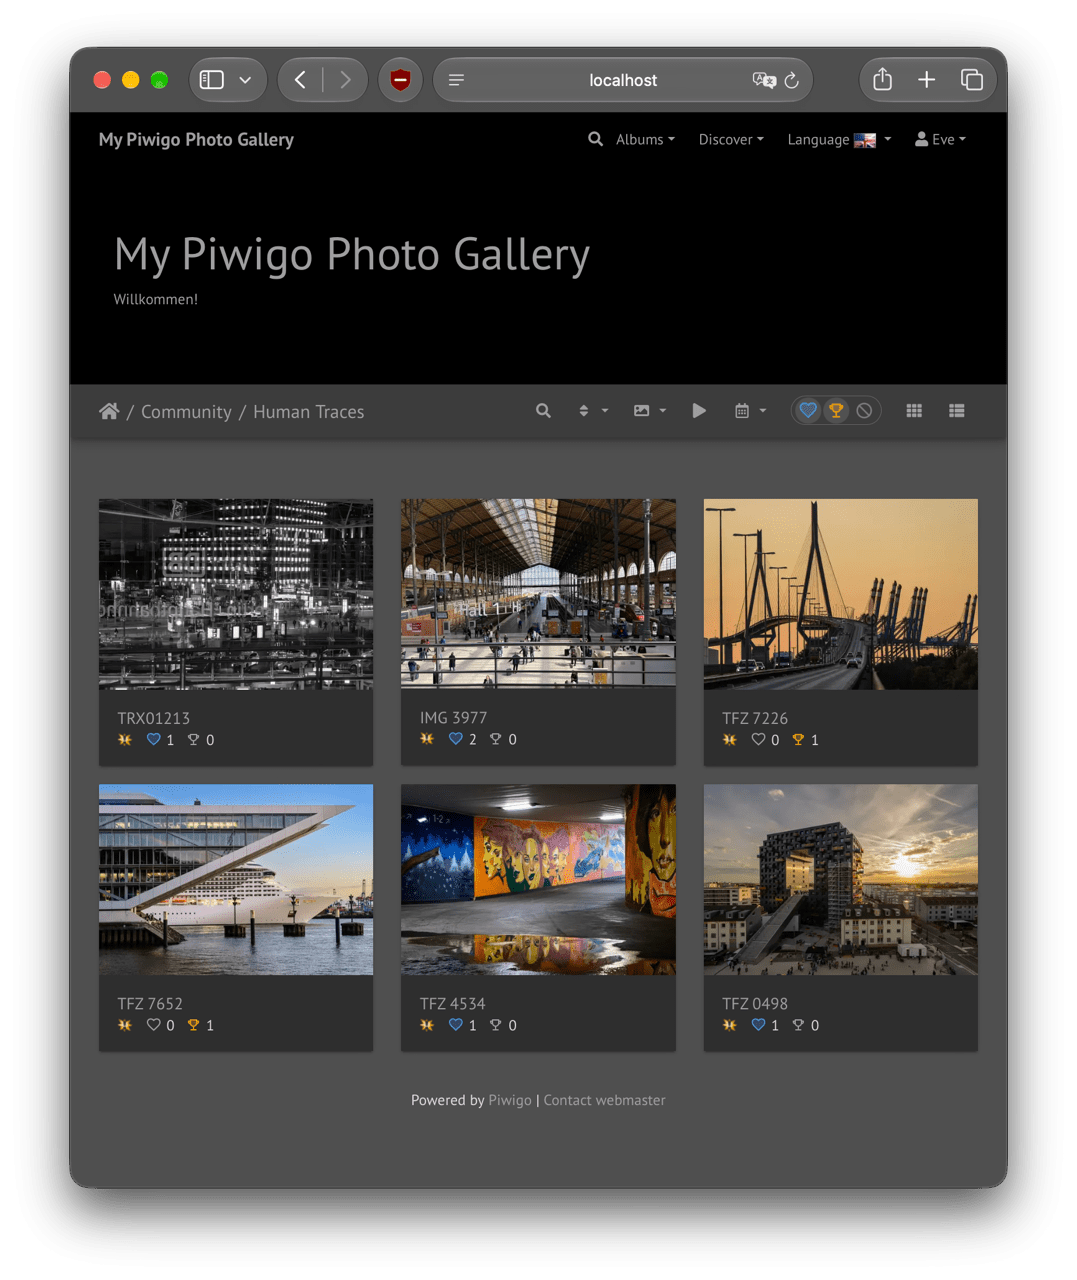
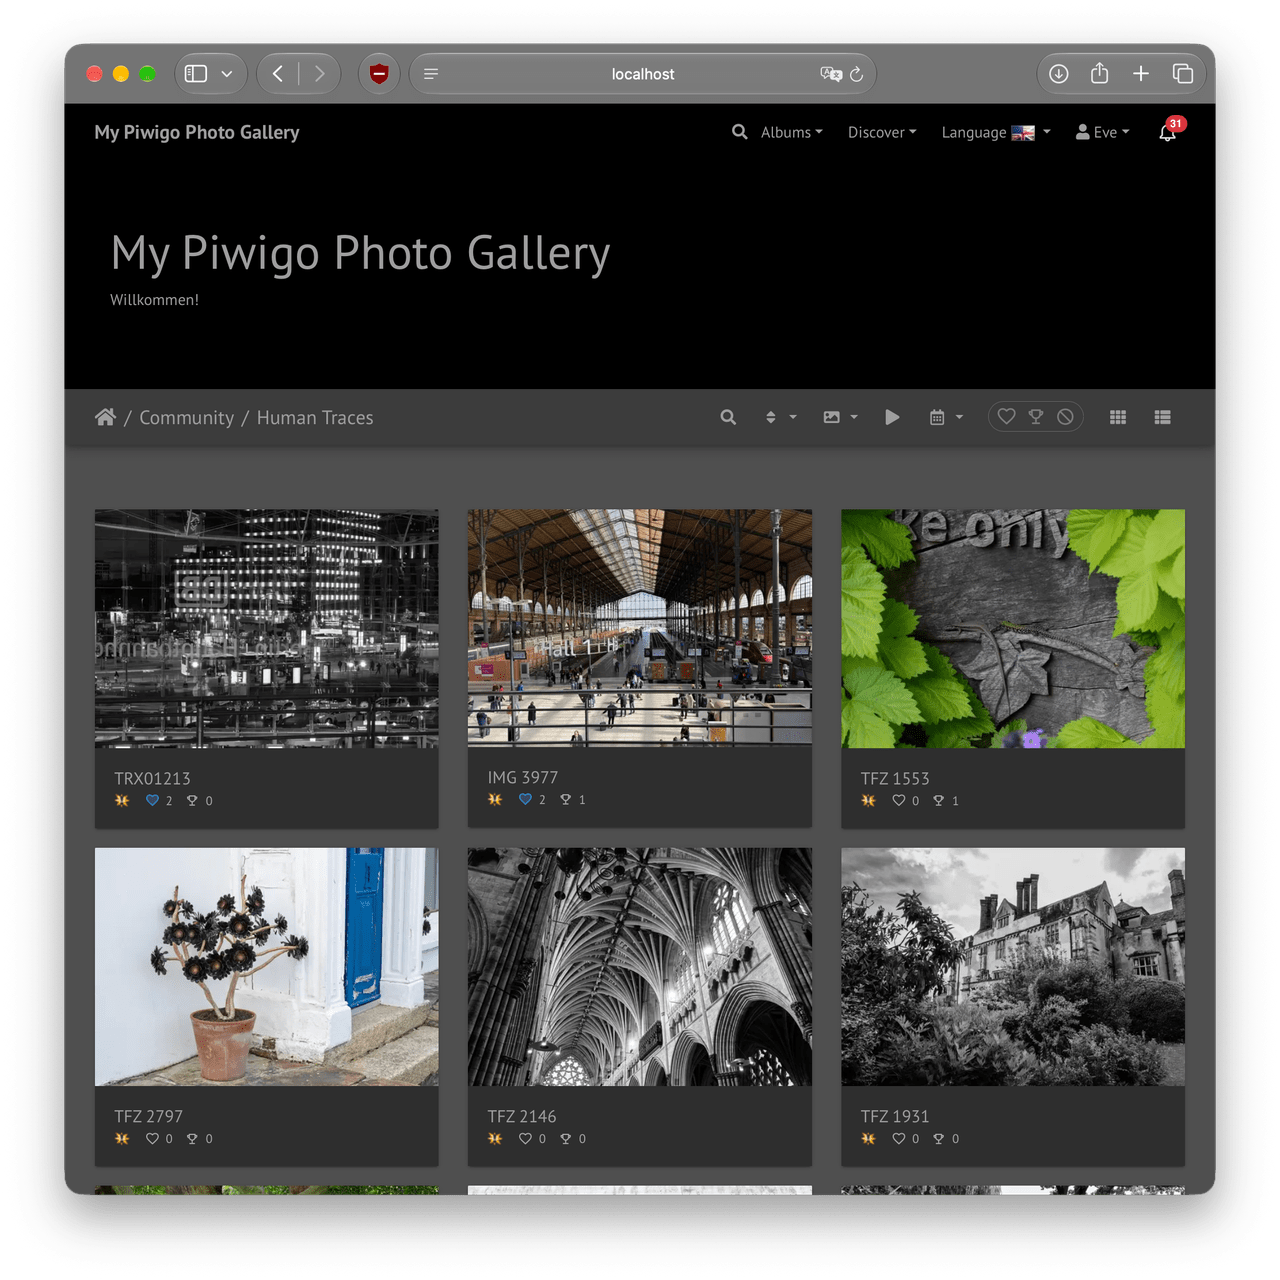
Feedback bell, step 8: README, changelog, screenshots
README: section "Feedback bell" (what the number counts, the list, the
page "All feedback", what counts and who is named, where the bell sits),
deactivating and uninstalling, two known limitations (owner from "added
by", time of votes only from the installation on). Changelog: area
"Feedback bell" under "Unreleased". New screenshots of the open list
and the page; the album pages and the photo page in Modus show the
bell now.

Modus: the name in front of "!" keeps no space after it, as without the
bell (the theme takes it away from the first link of the line only).

diff --git a/css/bell.css b/css/bell.css
@@ -91,6 +91,13 @@
   margin: -6px 8px -4px 0;
 }
 
+/* Modus takes the space after the first link of the line away
+   (#menubar dt a:first-child); with the bell in front, the name is no
+   longer the first child */
+#menubar dt > .lb-bell-modus:first-child + a {
+  padding-right: 0;
+}
+
 .lb-bell-elegant {
   float: right;
   width: 28px;

diff --git a/README.md b/README.md
@@ -8,6 +8,9 @@ It is built on Piwigo's own rating system: votes are stored as ordinary ratings,
 "Best rated" keeps working, and an album can be switched between stars and likes
 at any time without losing a vote.
 
+Members also get a bell that tells them who liked their photos, gave them a bravo
+or commented on them.
+
 * Internal name: `like_bravo` (directory name in `plugins/`)
 * Requires Piwigo 16 or later, PHP 8
 * Languages: English, German, French, Spanish, Italian
@@ -67,6 +70,59 @@ In the collapsed menu of narrow windows, the group sits on one line headed
 
 The menu block "Explore" gets two personal pages for signed-in members: "My likes"
 and "My bravos", with the latest votes first.
+
+## Feedback bell
+
+Signed-in members see a bell on every page of the gallery. Its red number counts
+the likes, bravos and comments that others gave to their photos and that they have
+not read yet. A photo belongs to the member who added it, for example with the
+plugin Community.
+
+A click on the bell opens the latest feedback, newest first. Older entries load
+while scrolling. Each entry has the thumbnail of the photo and one line of text,
+followed by the time and the photo's current likes and bravos:
+
+* "Anna likes your photo" / "Anna gave your photo a bravo"
+* "Ben commented on your photo: Lovely light in the …" (the beginning of the
+  comment)
+* "Ben edited a comment on your photo: …"
+
+![The open list of the bell in the theme Bootstrap Darkroom, with read and unread entries](docs/screenshots/bell.png)
+
+Unread entries have a blue dot and a light background. A click on the thumbnail
+opens the photo page (for a comment, at the comments) and marks the entry as
+read. So does a click on the dot, without leaving the list. "Mark all as read"
+marks everything at once. A click on the name of a member opens their own album
+of the plugin Community, if there is one with photos the owner may see.
+
+The link "All feedback" at the bottom of the list leads to a page with all
+feedback without an age limit. It is a feed under the headings Today, Yesterday,
+This week and Earlier. Next to the feed are an overview of the last 7 days, the
+filters All entries / Unread and All kinds / Likes and bravos / Comments, and the
+photos with the most feedback. On phones these sit above the feed.
+
+![Page "All feedback": the feed under the heading Today, next to it the overview, the filters and the photos with the most feedback](docs/screenshots/feedback-page.png)
+
+What counts:
+
+* Of the votes, only likes and bravos. Votes with Piwigo's stars, or on photos
+  without rating, do not appear. Comments appear on all photos.
+* A changed vote and an edited comment are unread again. A vote taken back, a
+  deleted comment or photo disappear. Comments that need approval appear once
+  they are approved.
+* A member's own votes and comments on their own photos do not appear.
+* Names follow the setting "Names of voters". Shown "to signed-in members" or "to
+  all visitors", members see in the bell who liked their photos or gave them a
+  bravo. Shown "to nobody", the entry says "Your photo got a like" or "Your photo
+  got a bravo" without a name. Comments always
+  show their author. Guests appear as "a guest", votes of deleted members as "a
+  former member".
+* When the plugin is installed or updated, all feedback given before counts as
+  read, so the bell starts at zero.
+
+The bell finds its place in the menu bar of Bootstrap Darkroom, Modus, Elegant and
+SmartPocket. In other themes, and where the theme hides its menu, it sits in the
+top right corner of the window. It has no settings and sends no emails.
 
 ## Requirements
 
@@ -156,9 +212,11 @@ switched, is in [docs/rating.md](docs/rating.md).
 
 * **Deactivating** hands all scores back to Piwigo. Likes then count as a rating
   of 2 and bravos as a rating of 4. The album settings are kept, and activating
-  the plugin again restores the like scores.
-* **Uninstalling** also removes the album settings and the plugin configuration.
-  The votes stay in Piwigo's rating table.
+  the plugin again restores the like scores. The bell disappears; what has been
+  read is kept.
+* **Uninstalling** also removes the album settings, the plugin configuration and
+  what the bell needs: the time of day of the votes and what has been read. The
+  votes stay in Piwigo's rating table, the comments in Piwigo's comments.
 
 ## Known limitations
 
@@ -172,6 +230,11 @@ switched, is in [docs/rating.md](docs/rating.md).
 * Without captions below the thumbnails there are no likes and bravos on them,
   for example in Modus with square thumbnails, where the theme switches the
   captions off. Votes are then given on the photo page.
+* The bell knows the owner of a photo from Piwigo's field "added by". Photos the
+  webmaster uploads for others belong to the webmaster, and so does their
+  feedback.
+* Piwigo keeps only the day of a vote. The plugin notes the time itself, from its
+  installation on; older votes show their day only.
 * The French, Spanish and Italian texts have not been reviewed by native
   speakers. Corrections are welcome.
 

diff --git a/CHANGELOG.md b/CHANGELOG.md
@@ -40,6 +40,23 @@ First public release, planned as 1.0.0.
   and next on the photo page.
 * Personal pages "My likes" and "My bravos" in the menu block "Explore".
 
+### Feedback bell
+
+* A bell on every page for signed-in members, with the number of unread likes,
+  bravos and comments on their own photos. Votes with stars do not count.
+* List of the latest feedback with thumbnail, text, time and the photo's totals;
+  older entries load while scrolling. Mark one entry or all as read.
+* Page "All feedback": a feed by day with an overview of the last 7 days,
+  filters (unread; likes and bravos; comments) and the photos with the most
+  feedback.
+* The thumbnail leads to the photo, the name of a member to their album of the
+  plugin Community.
+* Names follow the setting "Names of voters". A changed vote or an edited comment
+  is unread again.
+* Placed in the menu bar of Bootstrap Darkroom, Modus, Elegant and SmartPocket,
+  in the top right corner elsewhere. No settings, no emails.
+* After the update, all earlier feedback counts as read.
+
 ### Settings
 
 * Icons for Like, Bravo and "Remove my vote" from a built-in set.
